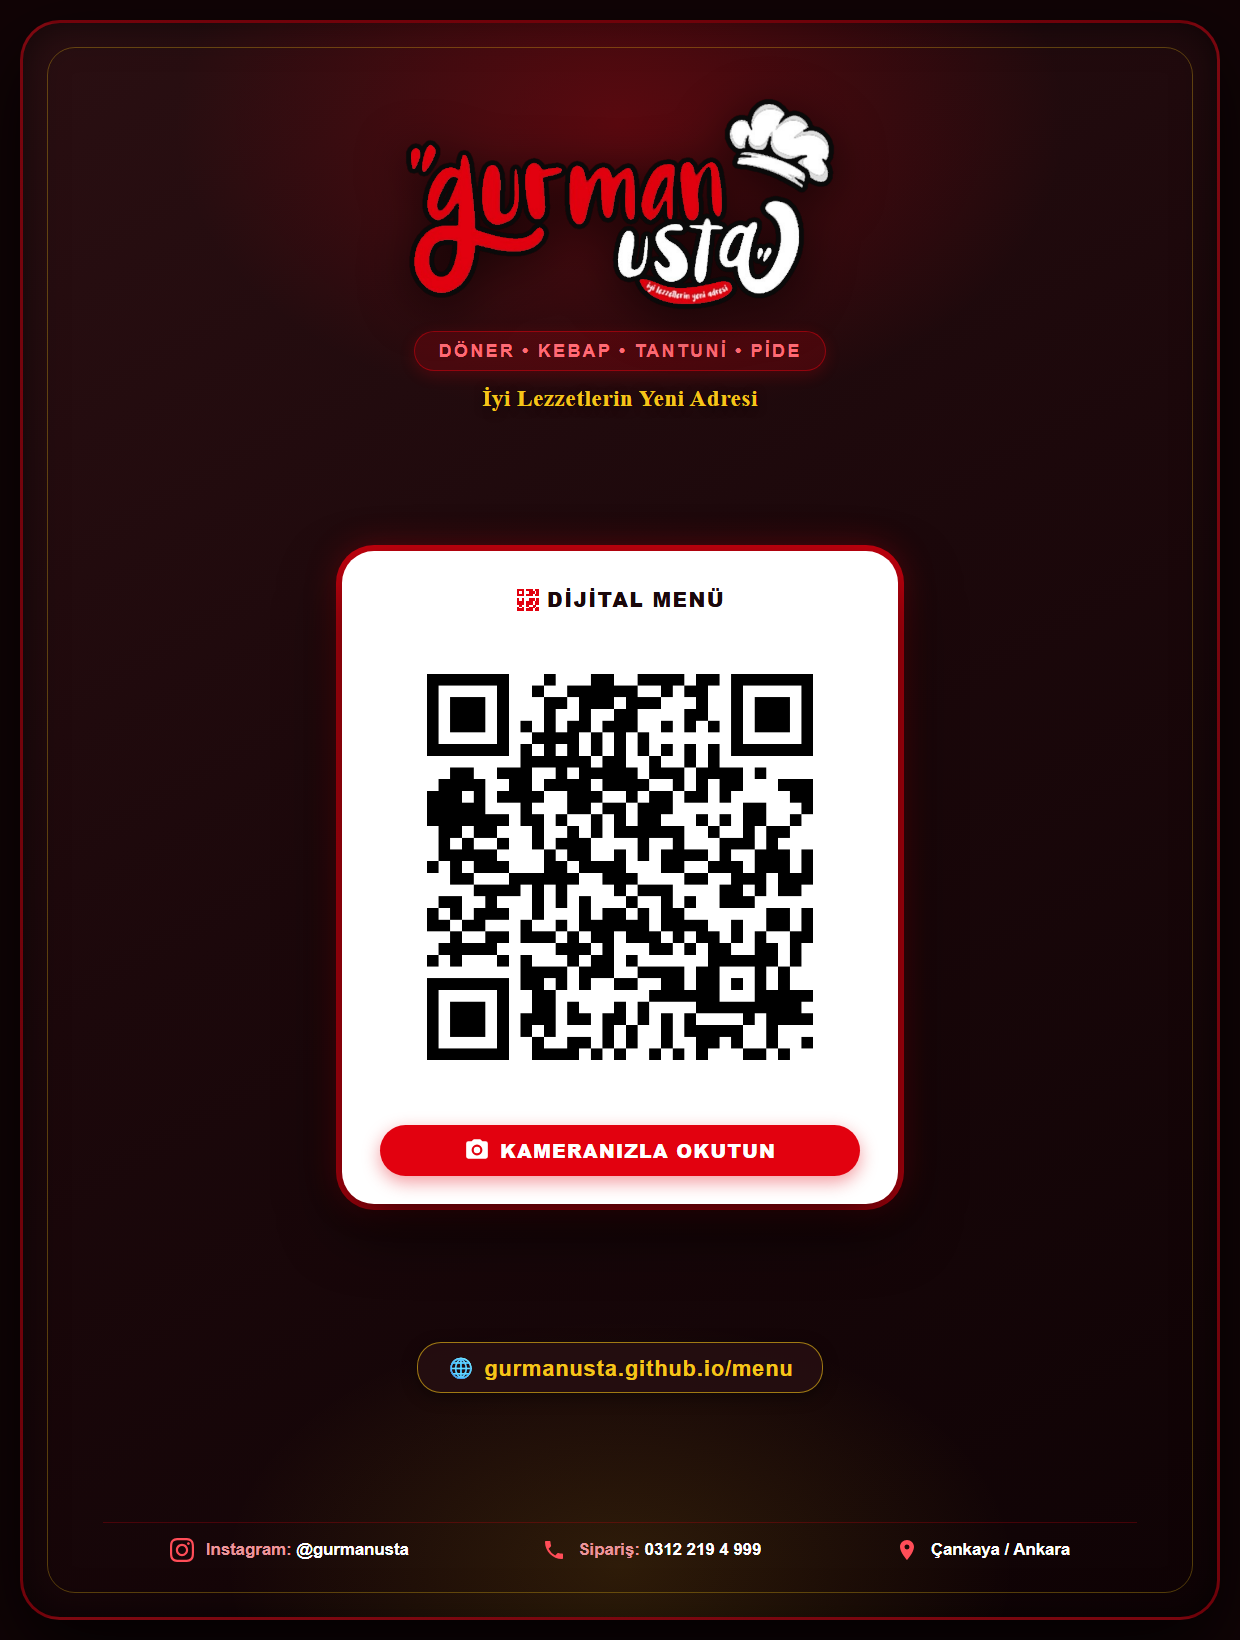
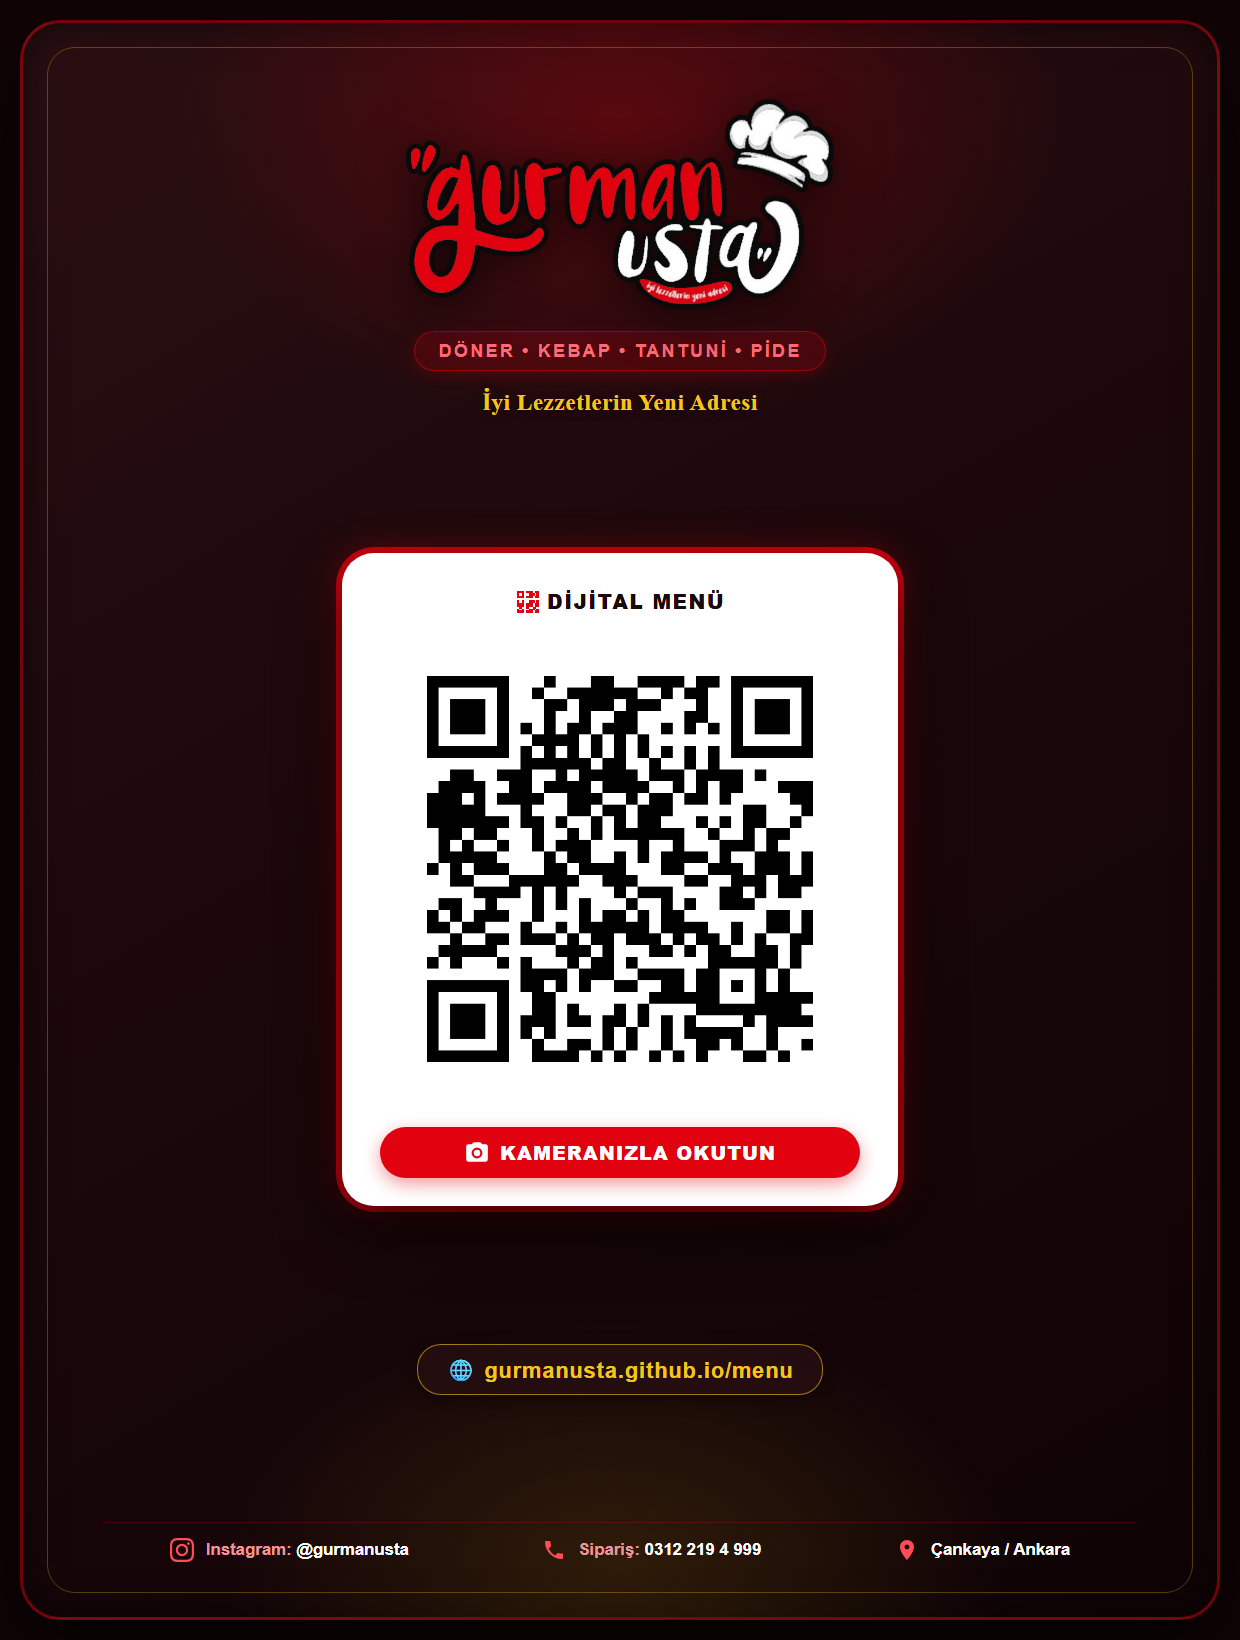
v1.32: QR kod ve qr-sunum gorselleri gurmanusta.github.io/menu/ ile senkronize edildi

diff --git a/index.html b/index.html
@@ -9,8 +9,8 @@
     <meta property="og:description" content="Döner • Kebap • Tantuni • Pide — İyi lezzetlerin yeni adresi">
     <meta property="og:type" content="website">
     <!-- Sürüm ve Son Güncelleme Bilgisi (UI'da gösterilmez, dosya içi takip) -->
-    <!-- Version: v1.31 | Last Updated: 2026-09-30 -->
-    <meta name="version" content="v1.31">
+    <!-- Version: v1.32 | Last Updated: 2026-09-30 -->
+    <meta name="version" content="v1.32">
     <meta name="last-modified" content="2026-09-30">
     <title>Gurman Usta — Menü</title>
     <link rel="preconnect" href="https://fonts.googleapis.com">

diff --git a/DEVLOG.md b/DEVLOG.md
@@ -8,6 +8,7 @@
 
 | Versiyon | Tarih | Özet |
 |----------|-------|------|
+| [v1.32](#v132) | 2026-09-30 | QR kod ve QR sunum afişi görselleri 'https://gurmanusta.github.io/menu/' adresine yeniden üretildi ve doğrulandı |
 | [v1.31](#v131) | 2026-09-30 | Kayan yazıda tireler nokta ('•') ile değiştirildi, footer Gurman Usta yanındaki tire tek tire ('-') yapıldı |
 | [v1.30](#v130) | 2026-09-30 | Yemek satırına tıklanınca yemek isimlerinin anlık renk değiştirmesi engellendi, index.html içine sürüm ve son güncelleme meta etiketleri eklendi |
 | [v1.29](#v129) | 2026-09-30 | Gel-Al kartı & normal fiyat boşluk simetrisi sağlandı, Niğde Gazozu düzeltildi, iletişim butonları-ödeme logoları mesafesi üst sınırla eşitlendi ve logolar büyütüldü |
@@ -956,6 +957,29 @@
 
 ---
 
+## v1.32
+**📅 2026-09-30 11:00** · QR Kod & Sunum Afişi Senkronizasyonu ve Teyidi
+
+**Prompt:** github pages adresini değiştirdik ama qr kodunu değiştirmeyi unuttuk.
+
+**Yapılanlar:**
+- **QR Kod ve Sunum Görselleri Yenilendi:**
+  - `qr-code.png` doğrudan yeni GitHub Pages adresi olan `https://gurmanusta.github.io/menu/` ile Python `qrcode` kütüphanesi kullanılarak en yüksek hata toleransıyla (`ERROR_CORRECT_H`) yeniden üretildi.
+  - `qr-sunum.png` yüksek çözünürlüklü afiş görseli yeni QR kodu ve `🌐 gurmanusta.github.io/menu` bağlantısı ile yeniden render edildi.
+  - Hem çalışma klasöründeki hem de arayüz artefakt dizinindeki QR dosyaları senkronize edildi.
+  - OpenCV `QRCodeDetector` ile her iki görsel taranarak `https://gurmanusta.github.io/menu/` adresine eksiksiz çözündüğü teyit edildi.
+- **Dosya İçi Sürüm Bilgisi:**
+  - `index.html` `<head>` bölümündeki `<meta name="version" content="v1.32">` güncellendi.
+- Versiyon kuralı uygulandı (+0.01 ➔ v1.32).
+
+**Dosya Değişiklikleri:**
+- 📝 `qr-code.png` yeniden üretildi (https://gurmanusta.github.io/menu/)
+- 📝 `qr-sunum.png` güncellendi
+- 📝 `index.html` güncellendi (v1.32 meta)
+- 📝 `DEVLOG.md` güncellendi (v1.32 eklendi)
+
+---
+
 ## 📁 Proje Dosya Yapısı
 
 ```
@@ -976,7 +1000,7 @@ gurman-menu/
 
 ---
 
-## 📊 Mevcut Durum (v1.31)
+## 📊 Mevcut Durum (v1.32)
 
 | Özellik | Durum |
 |---------|-------|
@@ -997,7 +1021,7 @@ gurman-menu/
 | Spesiyaller | 🌟 Gurman Kapalı Pide ve Yaprak Şiş altın sarısı vurgulu |
 | İletişim Kartı & Simge Butonları | 🌟 Kart üst sınırı ve ödeme yöntemleri ile mesafeler eşitlendi (26px); logolar büyütüldü (36px SVG, 66px dairesel butonlar) |
 | Ödeme Logoları | 🌟 Visa, Mastercard, Pluxee, Sodexo, Ticket Restaurant, Setcard |
-| Dosya İçi Meta Takip | 🌟 Sürüm (`v1.31`) ve son güncelleme tarihi `index.html` meta etiketlerinde kayıtlı (UI'da gizli) |
+| Dosya İçi Meta Takip | 🌟 Sürüm (`v1.32`) ve son güncelleme tarihi `index.html` meta etiketlerinde kayıtlı (UI'da gizli) |
 | Footer & Slogan | 🌟 Tek tireli sade format: `© 2026 Gurman Usta - İyi lezzetlerin Yeni Adresi` |
 | Navigasyon & Scroll | 🚀 8 menü kategorisi + İletişim, akıcı kaydırma ve ortalama |
 | Logo | 🌟 Siyah sınırlı, şeffaf, yüksek çözünürlüklü |
